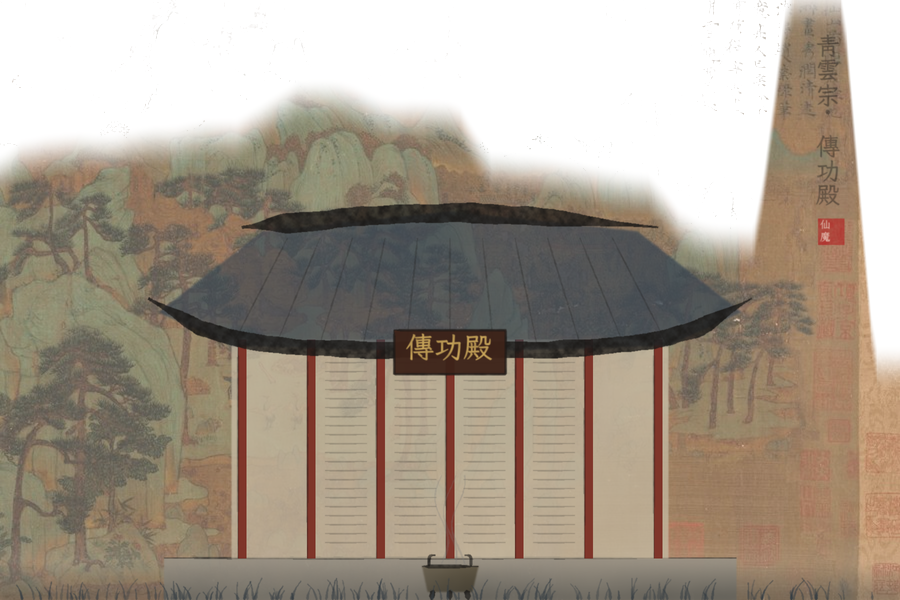
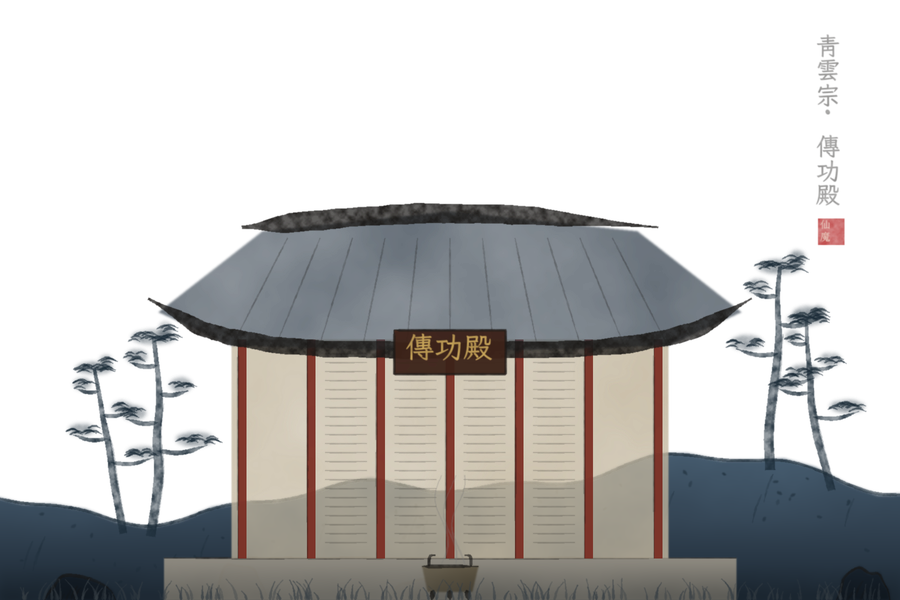
戶外區塊圖改成和分層背景同一套畫法，不再用古畫底圖 (#59)
Kc：原底圖沒有跟上設計。戶外區塊只畫自己的坡腳、樹、建築與石碑（chunks.py 的 bank，
用 layers.PALETTES 同一套色），上面透明；區塊圖幾乎貼著地面捲動、不再下沉，近景山石退到它後面。
區塊裡的橫向霧帶不再畫進戶外圖（避免在區塊兩端切出直邊）；skyline 對已透明的區塊沿用天色。

Claude-Session: https://claude.ai/code/session_01Pys4jZiBdfTibS8DynZjZp

diff --git a/tools/inkpaint/chunks.py b/tools/inkpaint/chunks.py
@@ -4,6 +4,7 @@ import math
 import numpy as np
 from PIL import Image
 
+from . import layers as L
 from . import paintings as P
 from . import scenery as S
 from .ink import INK, Canvas, chaikin, mix, seed_of
@@ -12,9 +13,62 @@ RED = (178, 30, 36)
 BLOOD = (150, 16, 24)
 
 
+# 戶外區塊（2026-11-01 起）：背景是多張獨立圖層（layers.py），區塊圖只畫這一塊自己的東西——
+# 建築、石碑、樹與坡腳，其餘透明；顏色用 layers.PALETTES 同一套，和丘陵、近景山石對得上。
+REGION = {
+    "chunk.qingyun_road": "forest", "chunk.qingyun_woods": "forest", "chunk.forest_clearing_a": "forest",
+    "chunk.mountain_village": "village", "chunk.ruined_shrine": "village",
+    "chunk.sect_gate": "sect", "chunk.sect_plaza": "sect", "chunk.sect_hall": "sect",
+    "chunk.heifeng_pass": "mountain", "chunk.heifeng_ravine": "mountain",
+}
+
+
+def bank(cv, region):
+    """區塊底部的坡腳：一道起伏的土坡（受光的上緣、墨線、皴點），兩頭種幾棵樹、散幾塊石頭。"""
+    p = L.PALETTES[region]
+    w, rng = cv.w, cv.rng
+    xs = np.linspace(-10, w + 10, max(12, int(w / 30)))
+    ph = [rng.uniform(0, 6.3) for _ in range(3)]
+    top = [(x, 488 - 22 * math.sin(x / 170 + ph[0]) - 12 * math.sin(x / 61 + ph[1]) - 6 * math.sin(x / 23 + ph[2])) for x in xs]
+    m = cv.poly(top + [(w + 10, 605), (-10, 605)], blur=1.5)
+    cv.paint(m, p["rock"], 1.0)        # 坡體不透明，後面的圖層不會透過來
+    cv.paint(cv.textured(cv.vgrad(m, 450, 560, 1.0, 0.0), 0.5, "cloud"), p["lit"], 0.7)
+    cv.paint(cv.textured(cv.vgrad(m, 520, 600, 0.0, 1.0), 0.5, "cloud"), p["pine"], 0.35)
+    cv.stroke(top, 2.6, p["pine"], 0.9, dry=0.45, taper=(0.02, 0.02))
+    for _ in range(int(w / 18)):
+        x = rng.uniform(10, w - 10)
+        y = np.interp(x, xs, [t[1] for t in top]) + rng.uniform(4, 60)
+        cv.dab(x, y, rng.uniform(1.4, 3.0), p["pine"], rng.uniform(0.4, 0.8), squash=0.5)
+    for _ in range(int(w / 70)):
+        x = rng.uniform(20, w - 20)
+        y = np.interp(x, xs, [t[1] for t in top]) + rng.uniform(8, 40)
+        cv.stroke([(x, y), (x - 6, y + 14), (x - 9, y + 28)], 1.6, p["pine"], 0.5, dry=0.6)
+    for x0, x1 in ((40, w * 0.18), (w * 0.82, w - 40)):
+        for _ in range(rng.integers(1, 3)):
+            x = rng.uniform(x0, x1)
+            gy = np.interp(x, xs, [t[1] for t in top]) + 10
+            if region in ("sect", "mountain") or rng.random() < 0.5:
+                S.pine(cv, x, gy, rng.uniform(150, 230), lean=rng.uniform(-0.6, 0.6), color=p["pine"], alpha=0.95)
+            else:
+                S.leafy_tree(cv, x, gy, rng.uniform(150, 220), color=p["pine"], leaf=p["rock"], alpha=0.95)
+    for _ in range(rng.integers(2, 5)):
+        x = rng.uniform(30, w - 30)
+        S.rock(cv, x, 600, rng.uniform(40, 90), rng.uniform(24, 46), p["rock"], 0.9)
+
+
+def _mist(cv, *args, **kw):
+    """區塊裡的橫向霧帶；戶外區塊（只畫坡腳與建築、上面透明）不畫，霧交給遊戲的山嵐層，免得在區塊兩端切出直邊"""
+    if not getattr(cv, "layered", False):
+        S.mist(cv, *args, **kw)
+
+
 def base(cid, w, theme):
-    """古畫底圖（paintings.py）調色後鋪滿畫布；沒有對應古畫的區塊才用程式畫的天與山。"""
+    """戶外區塊：透明底＋程式畫的坡腳（bank）。沒有分層的區塊（幻境）才用古畫（paintings.py）或程式畫的天與山。"""
     cv = Canvas(w, 600, seed_of(cid))
+    if cid in REGION:
+        cv.layered = True
+        bank(cv, REGION[cid])
+        return cv
     img = P.crop(cid, w)
     if img is not None:
         arr = np.asarray(P.grade(img, theme).resize((cv.W, cv.H), Image.BICUBIC), np.float32) / 255
@@ -24,9 +78,9 @@ def base(cid, w, theme):
     S.sky(cv, theme, S.ILLUSION_EDGE if theme == "illusion" else S.EDGE_SKY)
     t = S.THEMES[theme]
     S.mountains(cv, S.ridge(cv, S.EDGE_FAR, 90, 160, S.EDGE_FAR), t["far"], 0.45, mist=160)
-    S.mist(cv, 400, 50, (230, 228, 216) if theme != "illusion" else (120, 30, 34), 0.45)
+    _mist(cv, 400, 50, (230, 228, 216) if theme != "illusion" else (120, 30, 34), 0.45)
     S.mountains(cv, S.ridge(cv, S.EDGE_MID, 70, 120, S.EDGE_MID), t["mid"], 0.55, mist=120, ink_edge=2.2, cuns=int(w / 40))
-    S.mist(cv, 470, 40, (236, 232, 220) if theme != "illusion" else (110, 24, 28), 0.5)
+    _mist(cv, 470, 40, (236, 232, 220) if theme != "illusion" else (110, 24, 28), 0.5)
     return cv
 
 
@@ -56,9 +110,9 @@ def edge_profile(family):
             _PROFILES[family] = np.asarray(cv.image(), np.float32)[:, 16:48].mean(1)
             return _PROFILES[family]
         S.mountains(cv, np.full(64, float(S.EDGE_FAR)), colors[0], 0.45, mist=160)
-        S.mist(cv, 400, 50, mist_c, 0.45)
+        _mist(cv, 400, 50, mist_c, 0.45)
         S.mountains(cv, np.full(64, float(S.EDGE_MID)), colors[1], 0.55, mist=120)
-        S.mist(cv, 470, 40, mist_c, 0.5)
+        _mist(cv, 470, 40, mist_c, 0.5)
         S.ground_strip(cv, "illusion" if family == "illusion" else "forest", with_grass=False)
         _PROFILES[family] = np.asarray(cv.image(), np.float32)[:, 16:48].mean(1)
     return _PROFILES[family]
@@ -88,7 +142,7 @@ def qingyun_road(cid, w, name):
 
 def qingyun_woods(cid, w, name):
     cv = base(cid, w, "forest")
-    S.mist(cv, 540, 40, (236, 232, 220), 0.45)
+    _mist(cv, 540, 40, (236, 232, 220), 0.45)
     return finish(cv, name, "forest")
 
 
@@ -109,13 +163,13 @@ def mountain_cave(cid, w, name):
     S.rock(cv, 760, 600, 120, 70, (70, 68, 60))
     for x in (380, 520):
         cv.stroke([(x, 600), (x + 8, 560)], 3, (90, 110, 80), 0.6)
-    S.mist(cv, 560, 30, (120, 116, 104), 0.4)
+    _mist(cv, 560, 30, (120, 116, 104), 0.4)
     return finish(cv, name, "mountain", dark=True)
 
 
 def ruined_shrine(cid, w, name):
     cv = base(cid, w, "forest")
-    S.mist(cv, 560, 50, (236, 232, 220), 0.55)
+    _mist(cv, 560, 50, (236, 232, 220), 0.55)
     S.dead_tree(cv, 140, 600, 260)
     S.hall(cv, 560, 600, 280, 240, wall=(170, 160, 140), pillar=(110, 70, 50), roof_c=(60, 58, 52), text="山神")
     cv.paint(cv.textured(cv.poly([(620, 380), (690, 362), (705, 400), (640, 414)], blur=2), 0.6), (200, 196, 180), 0.8)
@@ -127,7 +181,7 @@ def ruined_shrine(cid, w, name):
 
 def mountain_village(cid, w, name):
     cv = base(cid, w, "forest")
-    S.mist(cv, 560, 50, (236, 232, 220), 0.55)
+    _mist(cv, 560, 50, (236, 232, 220), 0.55)
     for cx, hw in [(240, 170), (520, 140), (850, 180)]:
         S.house(cv, cx, 600, hw, hw * 0.9, lantern=cx == 520)
     for x in range(640, 740, 14):
@@ -140,7 +194,7 @@ def mountain_village(cid, w, name):
 
 def sect_gate(cid, w, name):
     cv = base(cid, w, "sect")
-    S.mist(cv, 580, 60, (234, 230, 214), 0.6)
+    _mist(cv, 580, 60, (234, 230, 214), 0.6)
     for k in range(10):
         y = 600 - k * 14
         cv.paint(cv.rect(560 - 90 + k * 6, y - 14, 560 + 90 - k * 6, y, blur=0.5), (170, 168, 160), 0.9)
@@ -170,7 +224,7 @@ def sect_plaza(cid, w, name):
 
 def sect_hall(cid, w, name):
     cv = base(cid, w, "sect")
-    S.mist(cv, 590, 60, (234, 230, 214), 0.6)
+    _mist(cv, 590, 60, (234, 230, 214), 0.6)
     S.hall(cv, w * 0.5, 600, 520, 420, roof_c=(56, 68, 80), text="傳功殿")
     S.cauldron(cv, w * 0.5, 600, 28)
     return finish(cv, name, "sect")
@@ -234,13 +288,13 @@ def heifeng_ravine(cid, w, name):
         ys = np.linspace(-10, 600, 34)
         edge = [(x0 + sgn * (190 + 40 * math.sin(y / 40) + cv.rng.uniform(-10, 10)), y) for y in ys]
         outer = [(x0 - sgn * 200, 600), (x0 - sgn * 200, -10)]
-        cv.wash(edge + outer, mix(t["mid"], INK, 0.2), 0.92, blur=2, tex=0.5, mode="over")
+        cv.wash(edge + outer, L.PALETTES["mountain"]["rock"], 0.95, blur=2, tex=0.5, mode="over")
         cv.stroke(edge, 4, INK, 0.85, dry=0.5)
         for _ in range(16):
             y = cv.rng.uniform(100, 560)
             x = x0 + sgn * cv.rng.uniform(40, 180)
             cv.stroke([(x, y), (x - sgn * 10, y + 20), (x - sgn * 14, y + 40)], 2, INK, 0.45, dry=0.6)
-    S.mist(cv, 560, 60, (220, 214, 200), 0.7)
+    _mist(cv, 560, 60, (220, 214, 200), 0.7)
     xs = np.linspace(250, w - 250, 30)
     bridge = [(x, 250 + 60 * math.sin((x - 250) / (w - 500) * math.pi)) for x in xs[:18]]
     cv.stroke(bridge, 2, (80, 60, 40), 0.85)

diff --git a/tools/inkpaint/skyline.py b/tools/inkpaint/skyline.py
@@ -74,11 +74,18 @@ def update_all():
     """所有區塊圖加天空遮罩，天色寫進 content/sky.json（遊戲拿來畫遠山後面的天）。"""
     root = Path(__file__).resolve().parents[2]
     out = {}
+    path = root / "content/sky.json"
+    old = json.loads(path.read_text(encoding="utf-8")) if path.exists() else {}
     for p in sorted((root / "art/chunks").glob("chunk.*.png")):
-        c = apply(p)
+        img = np.asarray(Image.open(p).convert("RGBA"))
+        if img[: img.shape[0] // 4, :, 3].mean() < 20:
+            # 戶外區塊（chunks.REGION）本來就只畫坡腳與建築、上面透明：不用再找天，天色沿用
+            if p.stem in old:
+                out[p.stem] = old[p.stem]
+            continue
+        c = apply(p) or old.get(p.stem)
         if c:
             out[p.stem] = c
-    path = root / "content/sky.json"
     data = {"_comment": "區塊圖天空（透明處）後面的天色，tools/inkpaint/skyline.py 產生"}
     data.update(out)
     path.write_text(json.dumps(data, ensure_ascii=False, indent=2) + "\n", encoding="utf-8")

diff --git a/art/STYLE.md b/art/STYLE.md
@@ -43,7 +43,7 @@
 - 出劍寫一個「斬」字：照筆順一筆筆寫出，命中時從後寫的筆畫開始碎成墨點散掉（`scripts/ink_glyph.gd`、`scripts/ink_glyph.gdshader`）。字圖 `art/fx/zhan.png` 由 `python tools/glyph_fx.py <霞鶩文楷 TTF>` 產生：R 是字形、G 是每一點被寫到的時間、B 是第幾筆；筆順是在 `GLYPHS` 裡手標的折線，要加別的字（如「破」「封」）照同樣格式加。
 - 事件包裝：事件開始時卷軸展開、朱印蓋下（心魔／奇遇／機緣／事件），結束時收一張小卷，印文了／敗／罷；這次事件的 NPC 頭上有一個小朱印。
 - 正邪色調：偏正世界略冷略清、偏邪略暖紅且暗角加深，幅度小到感覺得到、不太看得出來（`InkUI.karma_tint`）。突破時以角色為心染開一圈顏色：偏正青玉、偏邪朱砂、居中金。
-- 背景是多張獨立圖層疊起來，由遠到近捲得越來越快（不是一張畫）：天色 → 遠峰、遠山（`art/bg/ranges_*.png`，`python -m tools.inkpaint.far_ranges`）→ 丘陵 `hills_<地區>` → 水面 `water`（山村、林間）或雲海 `cloudsea`（宗門、黑風嶺）→ 古畫（戶外只留下半段的建築與坡腳）→ 近景山石松樹 `near_<地區>` → 山嵐 → 角色 → 前景草石與垂掛。地區圖層由 `python -m tools.inkpaint.layers` 產生（地區色在 `PALETTES`），越遠越淡越藍、越近越深越濃。
+- 背景是多張獨立圖層疊起來，由遠到近捲得越來越快（不是一張畫）：天色 → 遠峰、遠山（`art/bg/ranges_*.png`，`python -m tools.inkpaint.far_ranges`）→ 丘陵 `hills_<地區>` → 水面 `water`（山村、林間）或雲海 `cloudsea`（宗門、黑風嶺）→ 近景山石松樹 `near_<地區>` → 區塊圖（戶外只畫這塊自己的坡腳、樹、建築、石碑，上面透明，`chunks.py` 的 `bank`／`REGION`，幾乎貼著地面捲動）→ 山嵐 → 角色 → 前景草石與垂掛。地區圖層由 `python -m tools.inkpaint.layers` 產生（地區色在 `PALETTES`），越遠越淡越藍、越近越深越濃。
   - 古畫上方空白的天是透明的（`python -m tools.inkpaint.skyline`，天色寫進 `content/sky.json`；`paint_art.py` 畫完區塊會自動重跑），遠山從那裡露出來。
   - 古畫本身也分遠近（`scripts/parallax_painting.gd`）：畫頂只跟鏡頭走 6%、畫的下段走 24%，下段 38% 不拉斜（房子、牌坊不會歪）；越上面越淡、越偏天色（空氣透視）。
   - 古畫依地區上色（青綠山水式：深墨 → 地區主色 → 紙色）：山腳青綠、宗門藍青、黑風嶺赭石、村落土黃；洞窟、幻境保持原樣。
@@ -55,3 +55,5 @@
 ## 交付
 - 檔名照 `content/assets.json` 的 `files`；放進 `art/` 以後重開 Godot 就會自動匯入。
 - 缺哪些、哪些最常出場：`python tools/art_todo.py` 會產生 `art/TODO.md`。
+
+- 2026-11-01 起戶外區塊不再用古畫底圖（Kc：原底圖沒跟上設計）；古畫裁圖只剩幻境在用。
